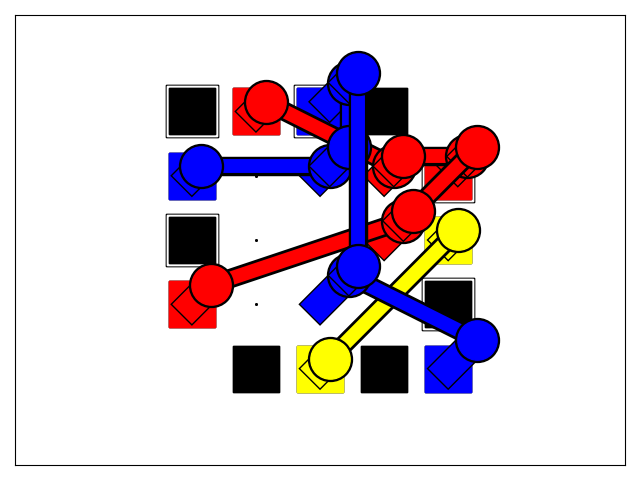
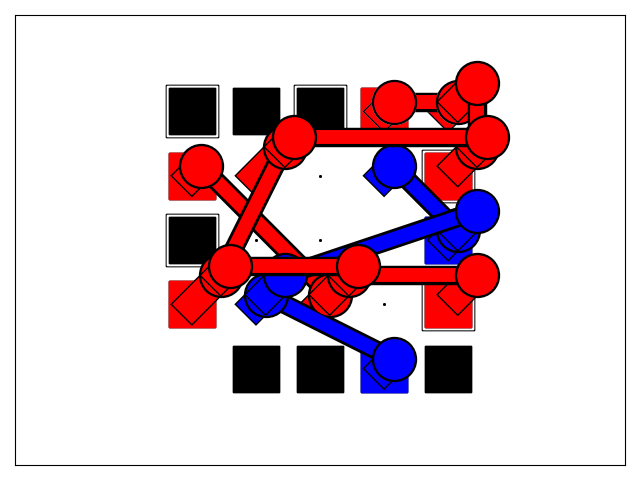
finalized solver + some handmade puzzles

Changed region(s): [[0.25, 0.0938, 0.8125, 0.8438]]

diff --git a/via_solver.py b/via_solver.py
@@ -5,17 +5,17 @@ import pickle
 import matplotlib.pyplot as plt
 from ortools.sat.python import cp_model
 import os
-#TODO when saving to file, print out both solution 
-#TODO once everything else is done - make a solid 10 puzzles by hand, then make an automated puzzle generator.
 
-puzzle_num = 4
-write_to_file = True
+puzzle_num = 1
+write_to_file = 1
+puzzle_path = f"sample_puzzles/puzzle{puzzle_num}.png"
+sol_path = f"sample_solutions/sol{puzzle_num}"
 if write_to_file: #don't allow previous puzzles to be overwritten
-    if os.path.exists(f"sample_puzzles/puzzle{puzzle_num}.png") or os.path.exists(f"sample_solutions/sol{puzzle_num}"):
+    if os.path.exists(puzzle_path) or os.path.exists(sol_path):
         print("Error - path already exists.")
         assert(False)
     else:
-        os.makedirs(f"sample_solutions/sol{puzzle_num}")
+        os.makedirs(sol_path)
 
 
 #Two plotting options: a single (somewhat messy) isometric view, or a simple 2d plot of each layer separately
@@ -28,16 +28,22 @@ max_solve_time = 720
 
 #generate all possible orientations for the pieces
 def rotate(piece):
-    orientations = [piece]
-    orientations.append([piece[0], -piece[1], piece[2]])
-    orientations.append([piece[1], piece[0], piece[2]])
-    orientations.append([-piece[1], piece[0], piece[2]])
-    if piece[0] != 0 and piece[1] !=0:
-        orientations.append([-piece[0], piece[1], piece[2]])
-        orientations.append([-piece[0], -piece[1], piece[2]])
-        orientations.append([piece[1], -piece[0], piece[2]])
-        orientations.append([-piece[1], -piece[0], piece[2]])
-    return orientations
+    orientations = [
+        [piece[0], piece[1], piece[2]],
+        [-piece[0], piece[1], piece[2]],  
+        [piece[0], -piece[1], piece[2]],
+        [-piece[0], -piece[1], piece[2]],
+        [piece[1], piece[0], piece[2]],
+        [-piece[1], piece[0], piece[2]],
+        [piece[1], -piece[0], piece[2]],
+        [-piece[1], -piece[0], piece[2]],
+    ]
+    unique_orientations = []
+    for orientation in orientations:
+        if not any(np.array_equal(orientation, existing) for existing in unique_orientations):
+            unique_orientations.append(orientation)
+    return unique_orientations
+
 
 # load pieces from a file.
 with open('via_pieces.pkl', 'rb') as file:
@@ -60,16 +66,24 @@ terminals = t+r+b[::-1]+l[::-1] #clockwise
 #     11 x x x 6
 #     x 10 9 8 7
 
-active_terminals = [(terminals[11], terminals[1], terminals[4]),
-                    (terminals[2], terminals[13], terminals[7]), (terminals[5], terminals[9])]
+active_terminals = [
+                    #(terminals[3], terminals[4], terminals[6], terminals[11], terminals[13]),
+                    #(terminals[5], terminals[8])
+                    (terminals[0],terminals[1],terminals[11],terminals[6]),
+                    (terminals[2],terminals[10]),
+                    (terminals[9],terminals[12],terminals[4])
+]
                     
 elevated_terminals = [terminals[12], terminals[0],terminals[2], terminals[4],terminals[6]]
 
 #specify starting pieces as [piece, row, col], for example [(rotate(pieces[0])[0],0,0)]
 #note that starting pieces can only be placed on the floor
 starting_pieces = [
-    #[(rotate(pieces[0])[2],1,0)]
+    [(rotate(pieces[3])[3],2,1)],
+    [(rotate(pieces[6])[2],4,2)],
+    [(rotate(pieces[1])[6],4,1)]
 ]   
+#print(rotate(pieces[1]))
 
 #generate all possible placements of a piece on the board as a list of [orientation, x, y]
 #note that a "placement" on the board does specify an orientation, and layer is not included in this list
@@ -164,7 +178,7 @@ def plot_grid(solution_grid, solver = None, force_layer_view=None):
                     plt.savefig(f"sample_solutions/sol{puzzle_num}/solution.png")
                 plt.clf()
             else:
-                plt.savefig(f"sample_puzzles/puzzle{puzzle_num}.png")
+                plt.savefig(puzzle_path)
         else:
             plt.show()
 
@@ -224,20 +238,38 @@ def plot_piece_3d(row, col, match_row, match_col, layer, height, node_id = -1):
     plt.scatter(top_col_1, top_row_1, s=size, c=colors[node_id], zorder=layer*scaler+1)
     plt.scatter(top_col_2, top_row_2, s=size, c=colors[node_id], zorder=layer*scaler+1)
 
+#plot puzzle starting configuration
+starting_grid = []
+for row in range(board_rows):
+    row_list = []
+    for col in range(board_cols):
+        row_list.append([])
+    starting_grid.append(row_list)
+
 placements_list = []
 is_starter_idx = [] # Tracks if this index is a starter
 piece_heights = []
 
-for piece in pieces: 
+for piece_num, piece in enumerate(pieces): 
     matched_starter = None
     piece_heights.append(piece[2])
 
     # check if any orientation for this piece matches a starter
     possible_orientations = rotate(piece)
-    for [(s_shape, s_row, s_col)] in starting_pieces:
+    for [(s_piece, s_row, s_col)] in starting_pieces:
         for orient in possible_orientations:
-            if np.array_equal(s_shape, orient):
-                matched_starter = [(s_shape, s_row, s_col)]
+            if np.array_equal(s_piece, orient):
+                #track starting pieces
+                matched_starter = [(s_piece, s_row, s_col)]
+                #plot starting pieces
+                starting_grid[s_row][s_col].append(piece_num) 
+                x_len, y_len = s_piece[0], s_piece[1]
+                end_row, end_col = s_row+y_len, s_col+x_len
+                if 0 <= end_row < board_rows and 0 <= end_col < board_cols:
+                    starting_grid[end_row][end_col].append(piece_num)
+                else:
+                    print(f"Error: Starting piece {piece_num} at ({s_row},{s_col}) extends off-board to ({end_row},{end_col})")
+                    assert(False)
                 break
             
     if matched_starter:
@@ -249,17 +281,6 @@ for piece in pieces:
         placements_list.append(possible_placements(piece))
         is_starter_idx.append(False)
 
-#plot puzzle starting configuration
-starting_grid = []
-for row in range(board_rows):
-    row_list = []
-    for col in range(board_cols):
-        row_list.append([])
-    starting_grid.append(row_list)
-for [(starting_piece,row,col)] in starting_pieces:
-    starting_grid[row][col].append(1)
-    x_len, y_len = starting_piece[0], starting_piece[1]
-    starting_grid[row+y_len][col+x_len].append(1)
 plot_grid(starting_grid)
 
 Model = cp_model.CpModel()
@@ -624,11 +645,15 @@ if solution in (cp_model.OPTIMAL, cp_model.FEASIBLE):
         create_sol_grid(placements_list, piece_vars_list, solver)
 elif solution == cp_model.UNKNOWN:
     print(f"Search aborted after {max_solve_time/60} minutes.")
-    #clear things out so we can rerun with the same puzzle number
-    os.remove(f"sample_puzzles/puzzle{puzzle_num}.png")
-    os.remove(f"sample_solutions/sol{puzzle_num}")
+    if write_to_file:
+        #clear things out so we can rerun with the same puzzle number
+        os.remove(puzzle_path)
+        import shutil  # Import here if not at top
+        shutil.rmtree(sol_path)
 else:
     print("No solution found.")
-    #clear things out so we can rerun with the same puzzle number
-    os.remove(f"sample_puzzles/puzzle{puzzle_num}.png")
-    os.remove(f"sample_solutions/sol{puzzle_num}")
+    if write_to_file:
+        #clear things out so we can rerun with the same puzzle number
+        os.remove(puzzle_path)
+        import shutil
+        shutil.rmtree(sol_path)
